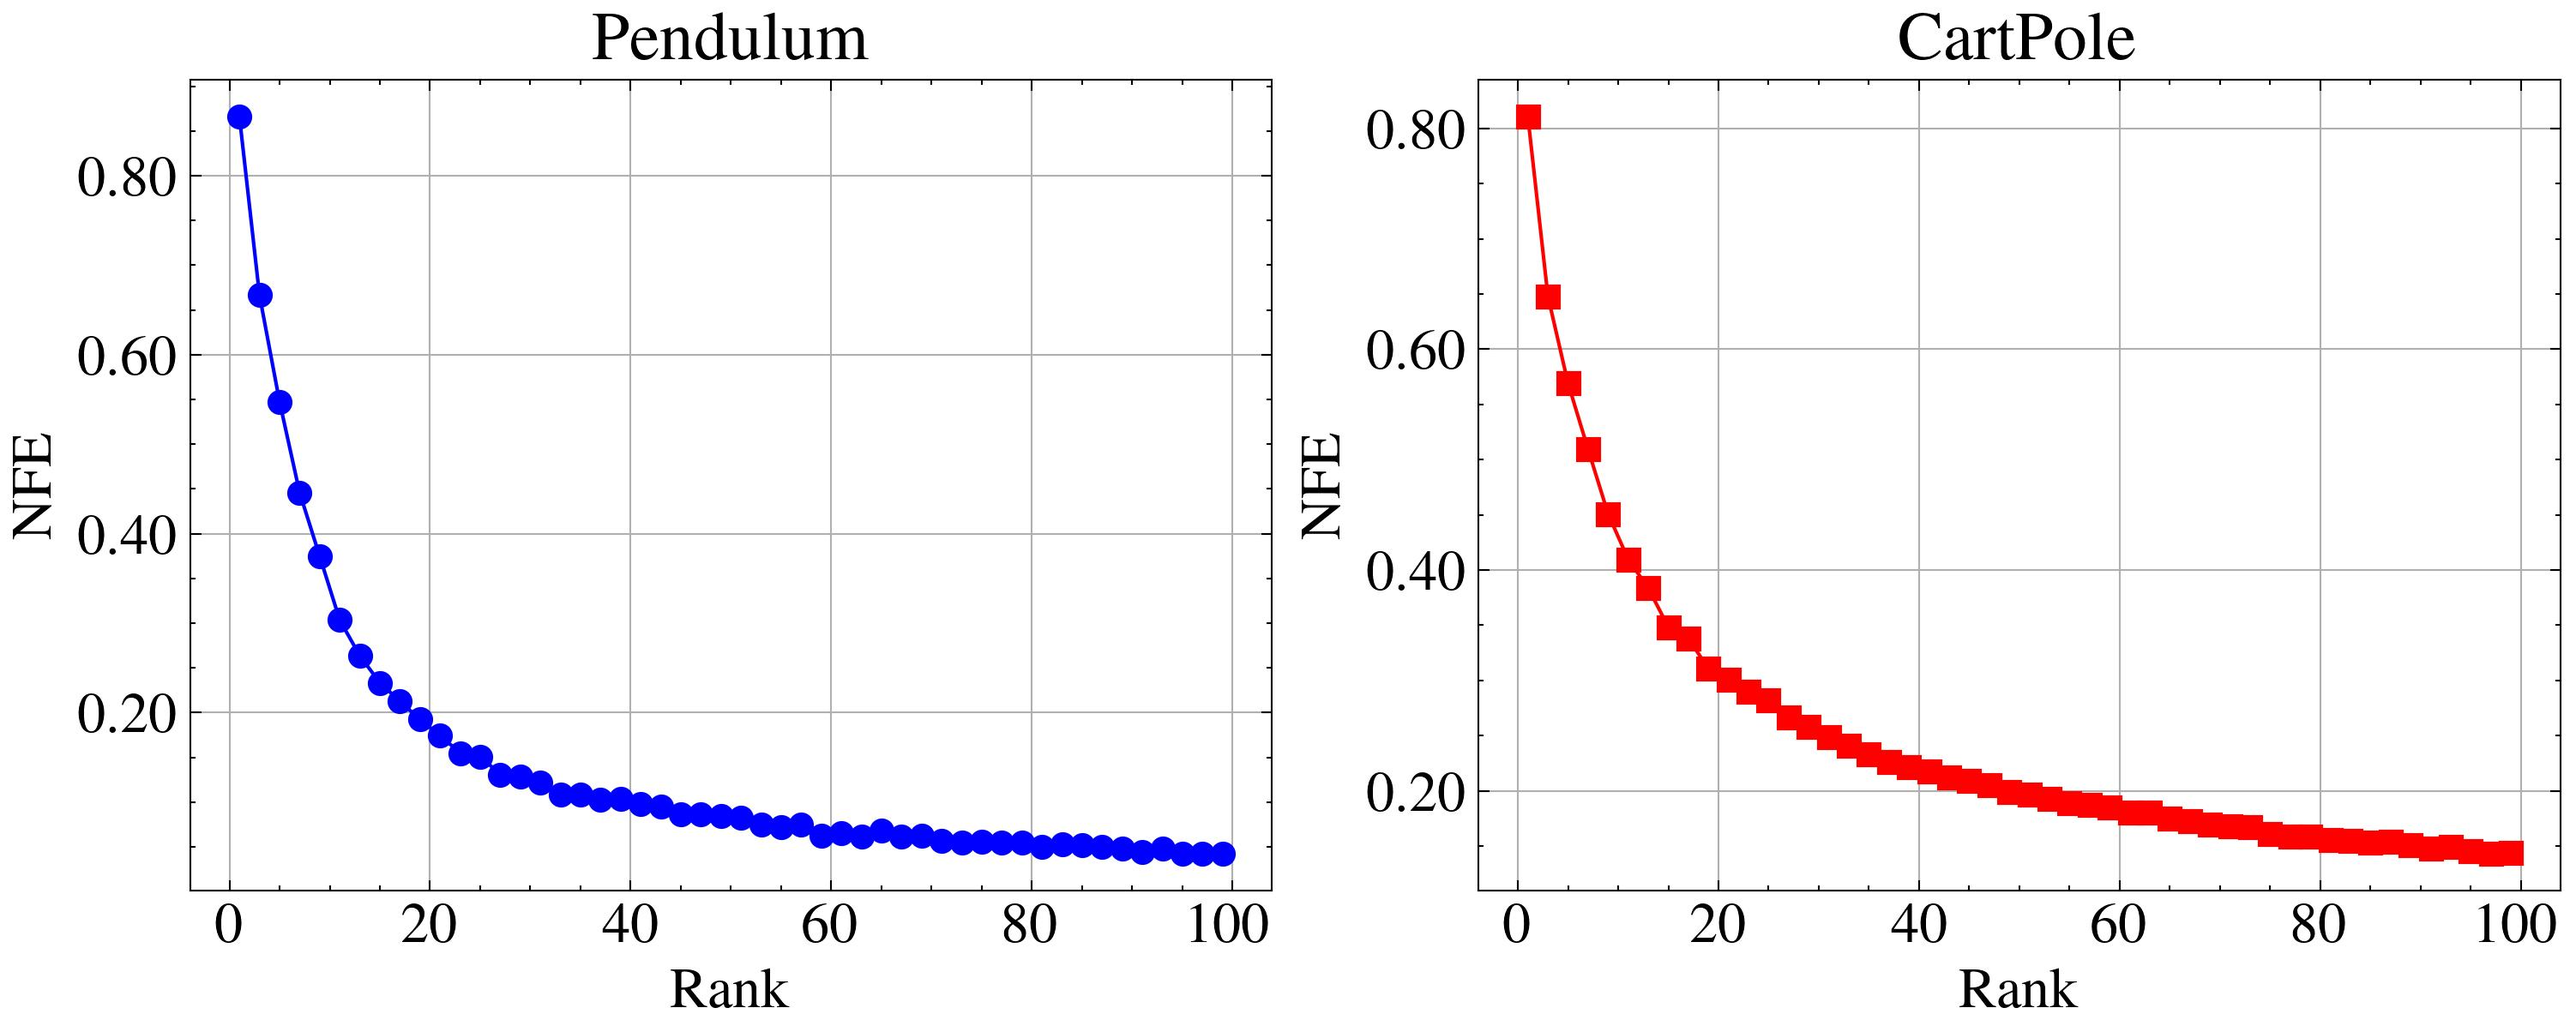
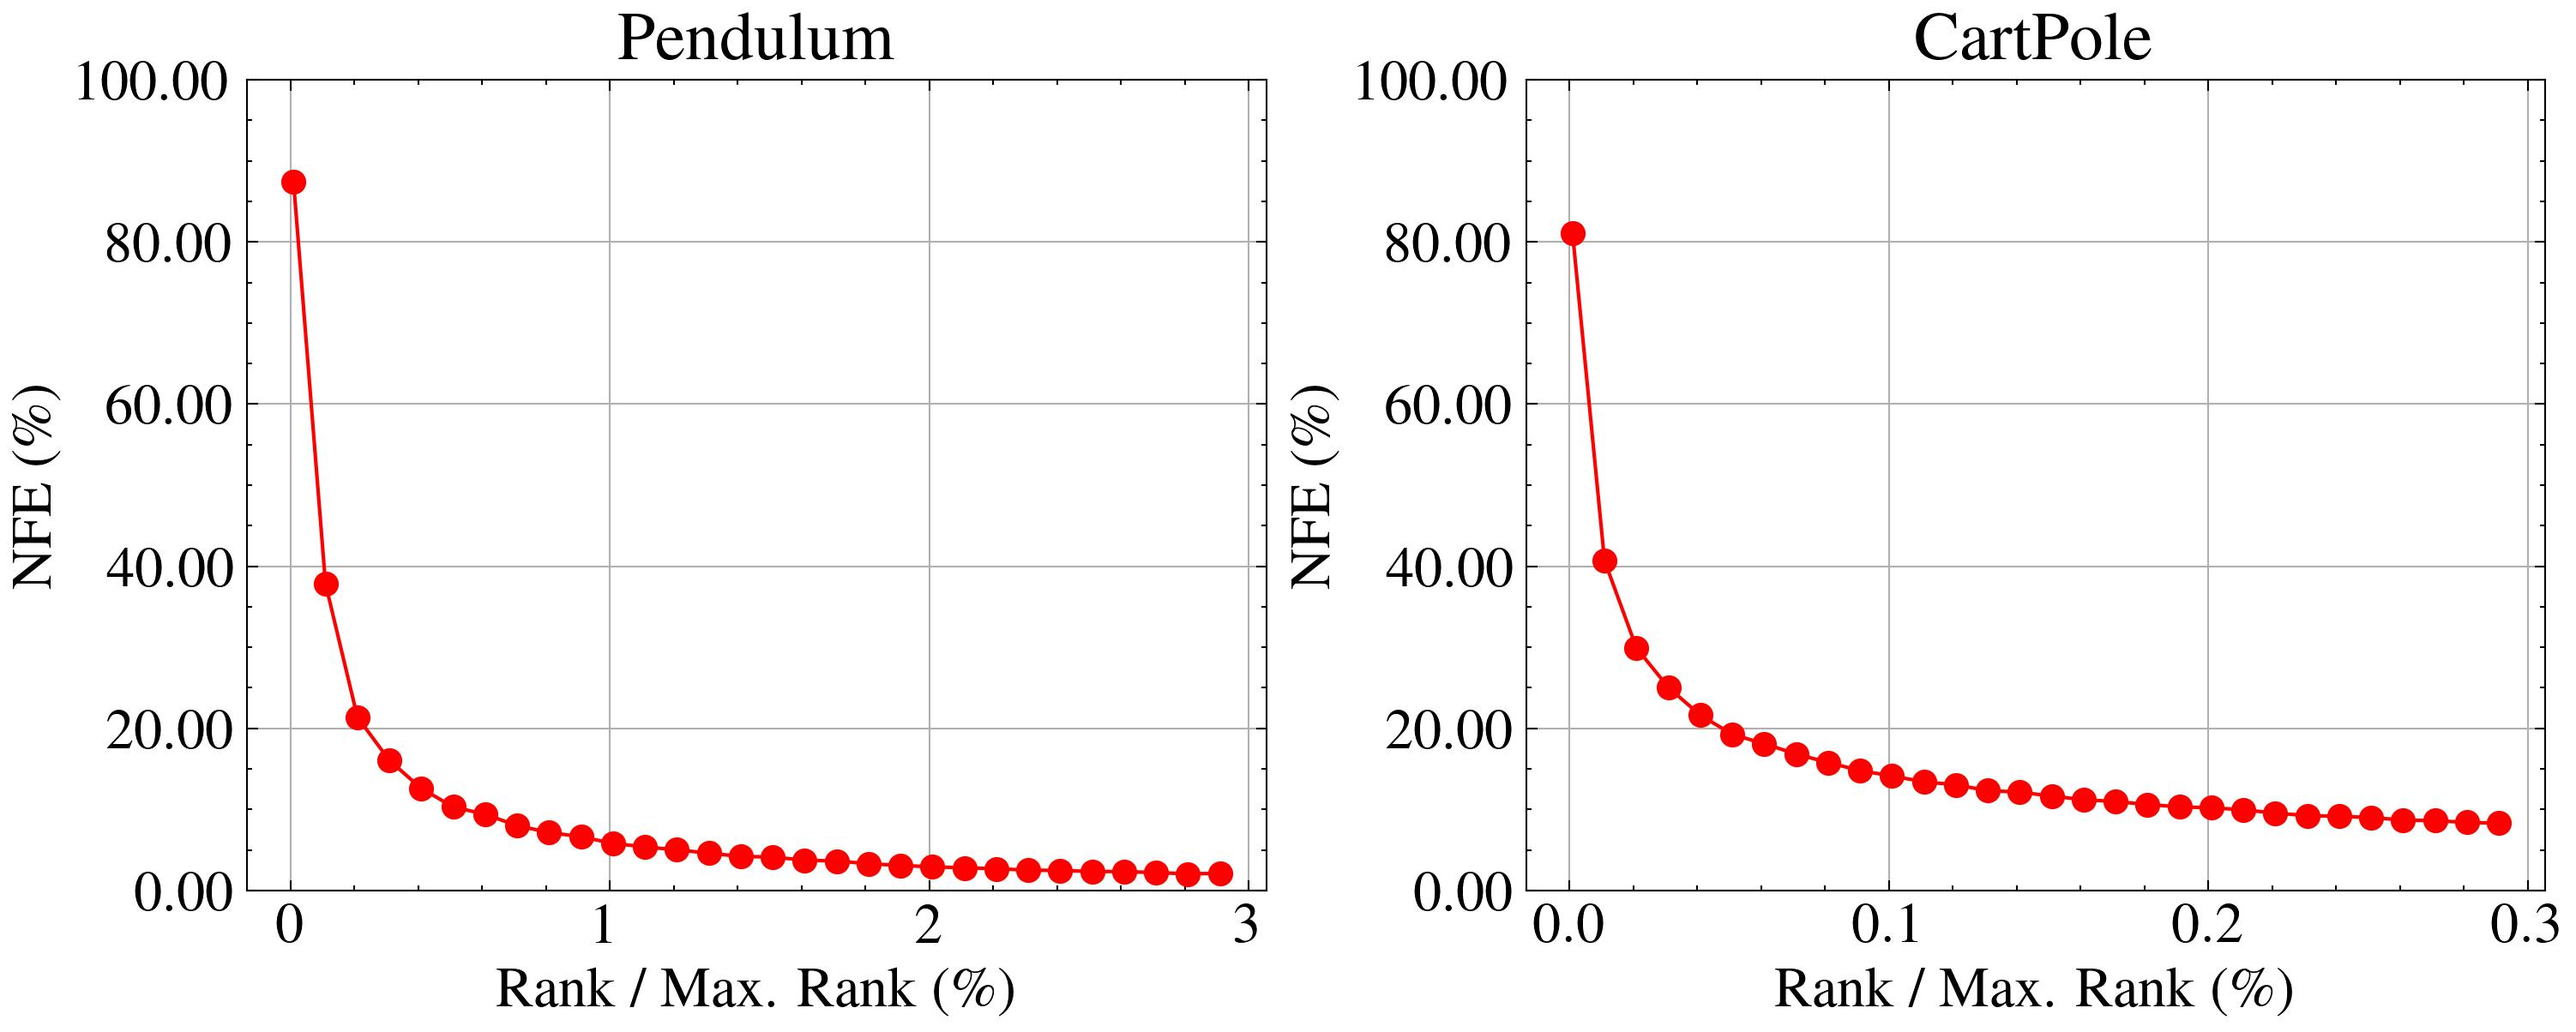
modification in ranks exp

diff --git a/src/plots.py b/src/plots.py
@@ -868,19 +868,21 @@ def plot_gym_parafac():
         fig, axarr = plt.subplots(1, 2, figsize=(10, 4), constrained_layout=True)
 
         # Plot Pendulum
-        axarr[0].plot(pen_ranks, pen_errors, marker='o', color='b', label="Pendulum")
-        axarr[0].set_xlabel("Rank")
-        axarr[0].set_ylabel("NFE")
+        axarr[0].plot((100 * np.array(pen_ranks) / 10_000), 100 * np.array(pen_errors), marker='o', color='r', label="Pendulum")
+        axarr[0].set_xlabel("Rank / Max. Rank (\%)")
+        axarr[0].set_ylabel("NFE (\%)")
         axarr[0].set_title("Pendulum")
         axarr[0].grid(True)
+        axarr[0].set_ylim(0, 100)
         axarr[0].yaxis.set_major_formatter(ticker.FormatStrFormatter('%.2f'))
 
         # Plot CartPole
-        axarr[1].plot(cart_ranks, cart_errors, marker='s', color='r', label="CartPole")
-        axarr[1].set_xlabel("Rank")
-        axarr[1].set_ylabel("NFE")
+        axarr[1].plot((100 * np.array(cart_ranks) / 100_000), 100 * np.array(cart_errors), marker='o', color='r', label="CartPole")
+        axarr[1].set_xlabel("Rank / Max. Rank (\%)")
+        axarr[1].set_ylabel("NFE (\%)")
         axarr[1].set_title("CartPole")
         axarr[1].grid(True)
+        axarr[1].set_ylim(0, 100)
         axarr[1].yaxis.set_major_formatter(ticker.FormatStrFormatter('%.2f'))
 
         output_file = "figures/gym_parafac.jpg"

diff --git a/src/experiments/gym.py b/src/experiments/gym.py
@@ -111,7 +111,7 @@ def train_and_eval_env(env_name, config_module, eps=20_000):
     
     # Evaluate ranks
     print("Evaluating PARAFAC ranks...")
-    ranks, errors = evaluate_parafac_ranks(Q_tensor, max_rank=100, step=2)
+    ranks, errors = evaluate_parafac_ranks(Q_tensor, max_rank=300, step=10)
     
     return {"ranks": ranks, "errors": errors}
 
